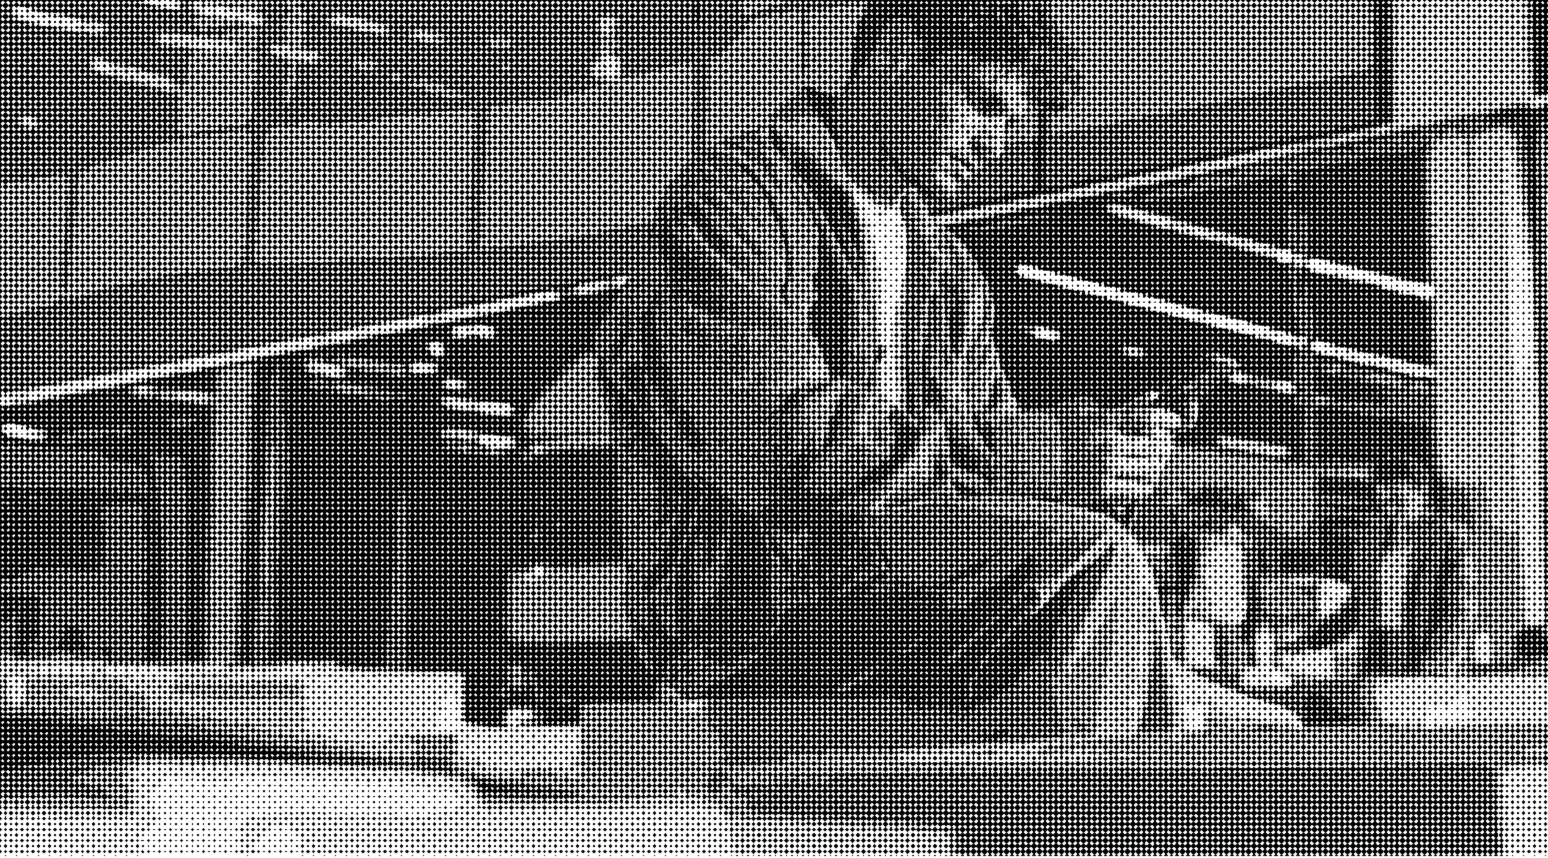
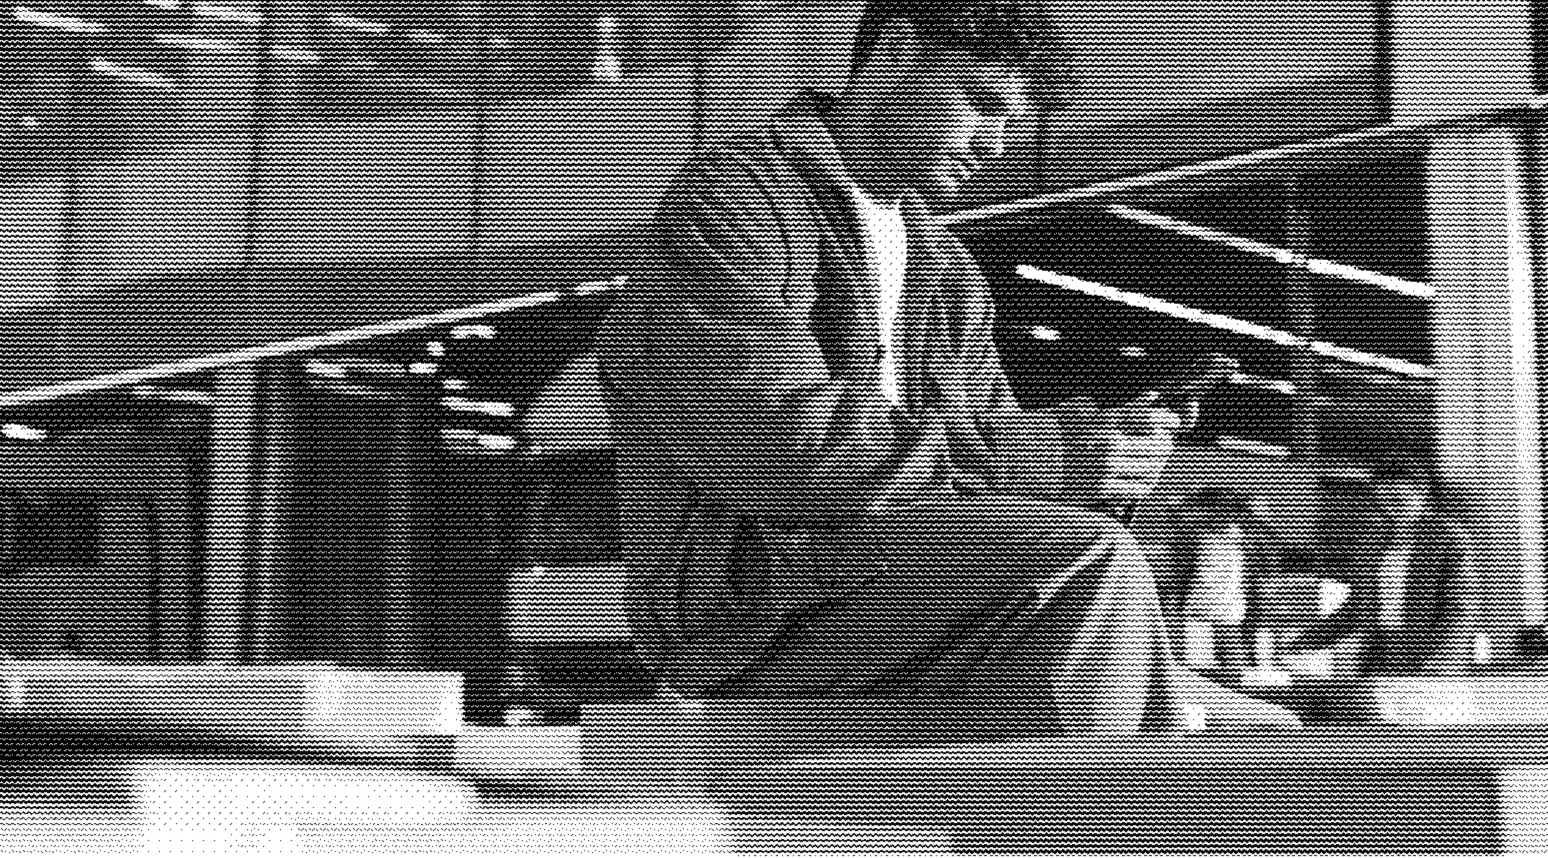
MCP landing: slider back to wavy lines per Figma 373:4753 (MARKET-3060)
Pattern Screen now wavy lines at scale 5.5, contrast 1.35 on every slide; baked fallbacks re-exported from
373:4752 / 373:4751. Photos and crops unchanged.

diff --git a/mcp-landing.html b/mcp-landing.html
@@ -3031,8 +3031,8 @@ fn rotateUV(p: vec2f, angle: f32) -> vec2f {
 /* Minimal host: feeds the photo (object-fit: cover at the layer's size) in as the input texture at the
    layer's design size. Params match the Figma effect. The ripple re-renders ~30fps, only the slide on show,
    only while the slider is on screen; reduced motion gets the still frame. */
-// Figma 373:4752 (desk) / 373:4751 (dock): one diamond-checker screen on every slide
-const SHADER_PARAMS = { patternAngle: 0, contrast: 1.35, bgColor: { r: 0, g: 0, b: 0, a: 1 }, patternScale: 5.5, tintColor: { r: 1, g: 1, b: 1, a: 1 }, patternMode: 7 };
+// Figma 373:4752 (desk) / 373:4751 (dock): one wavy-line screen on every slide
+const SHADER_PARAMS = { patternAngle: 0, contrast: 1.35, bgColor: { r: 0, g: 0, b: 0, a: 1 }, patternScale: 5.5, tintColor: { r: 1, g: 1, b: 1, a: 1 }, patternMode: 6 };
 async function applyPatternScreen() {
   if (!navigator.gpu) { console.info('Pattern Screen shader needs WebGPU; showing the unshaded photos.'); return; }
   const adapter = await navigator.gpu.requestAdapter();
